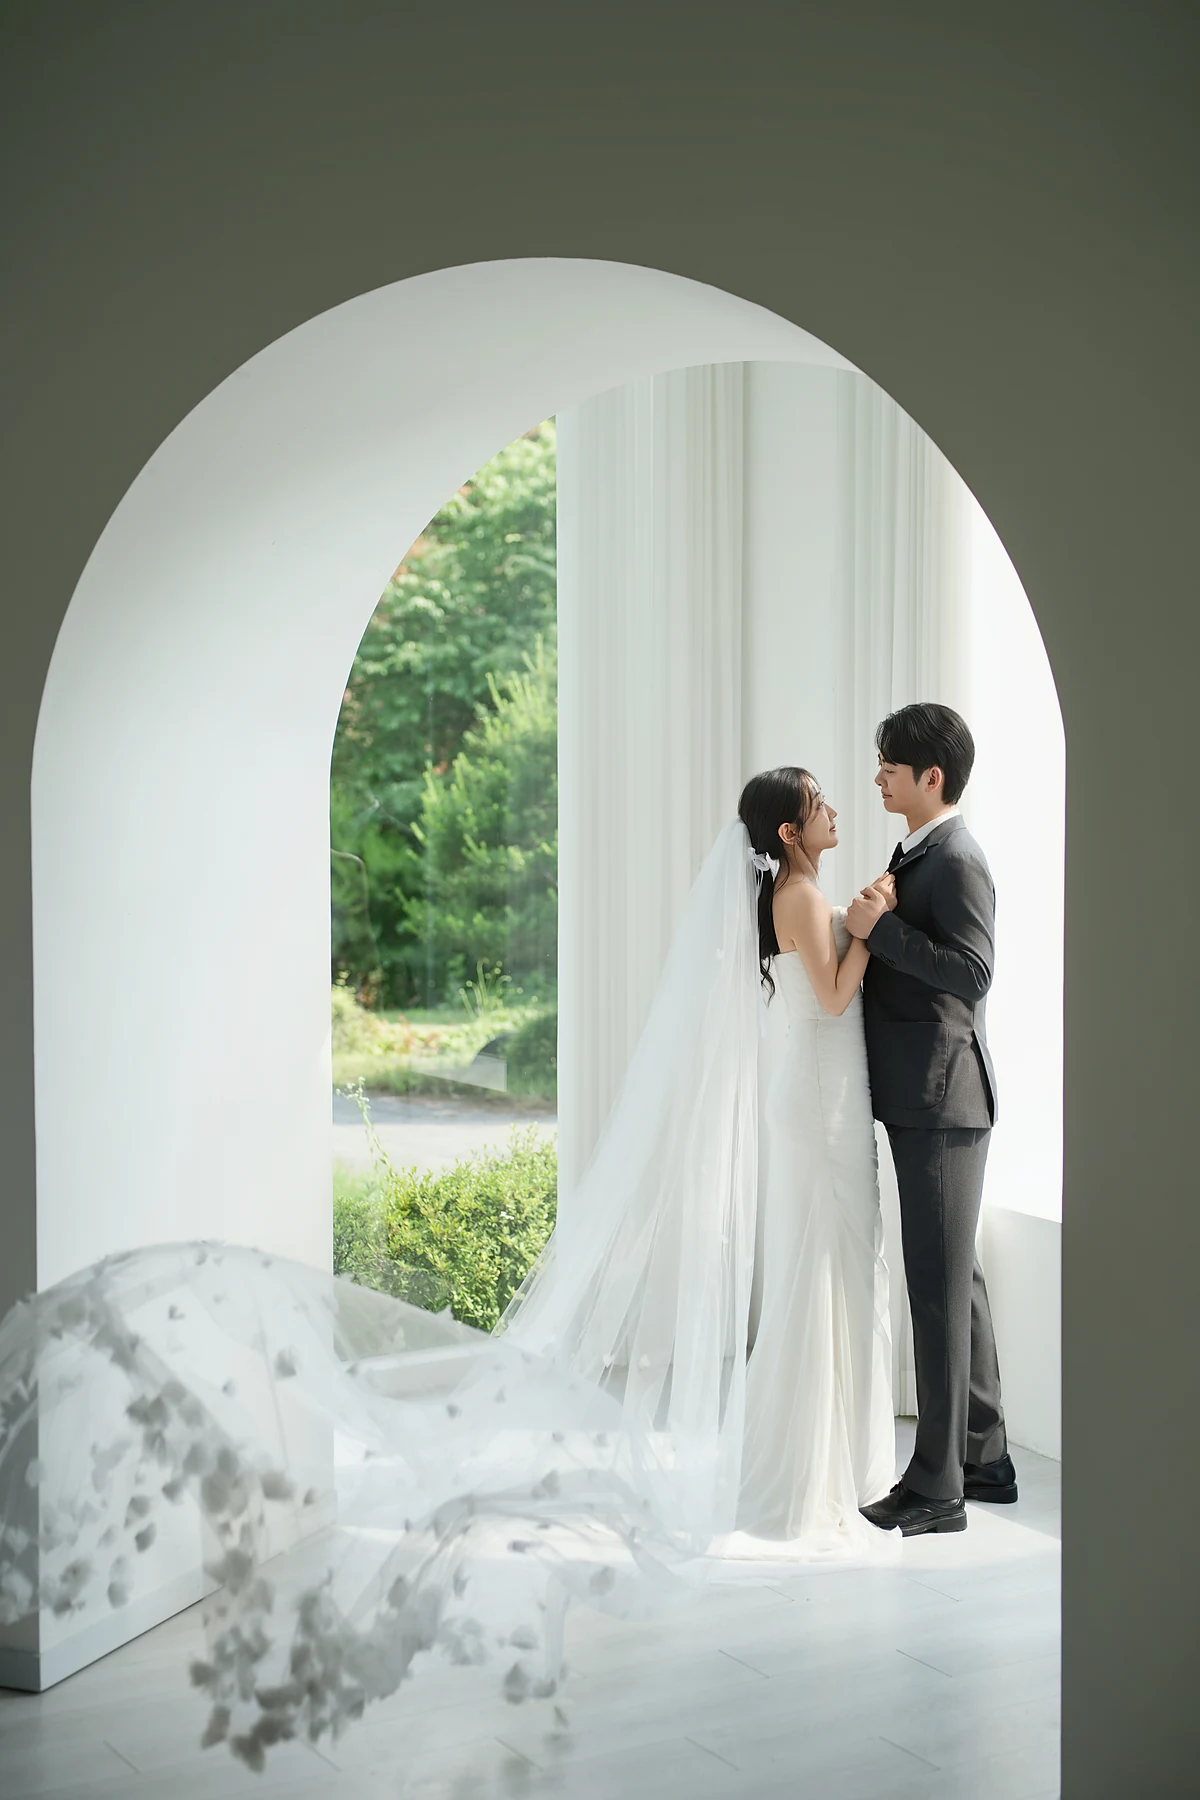
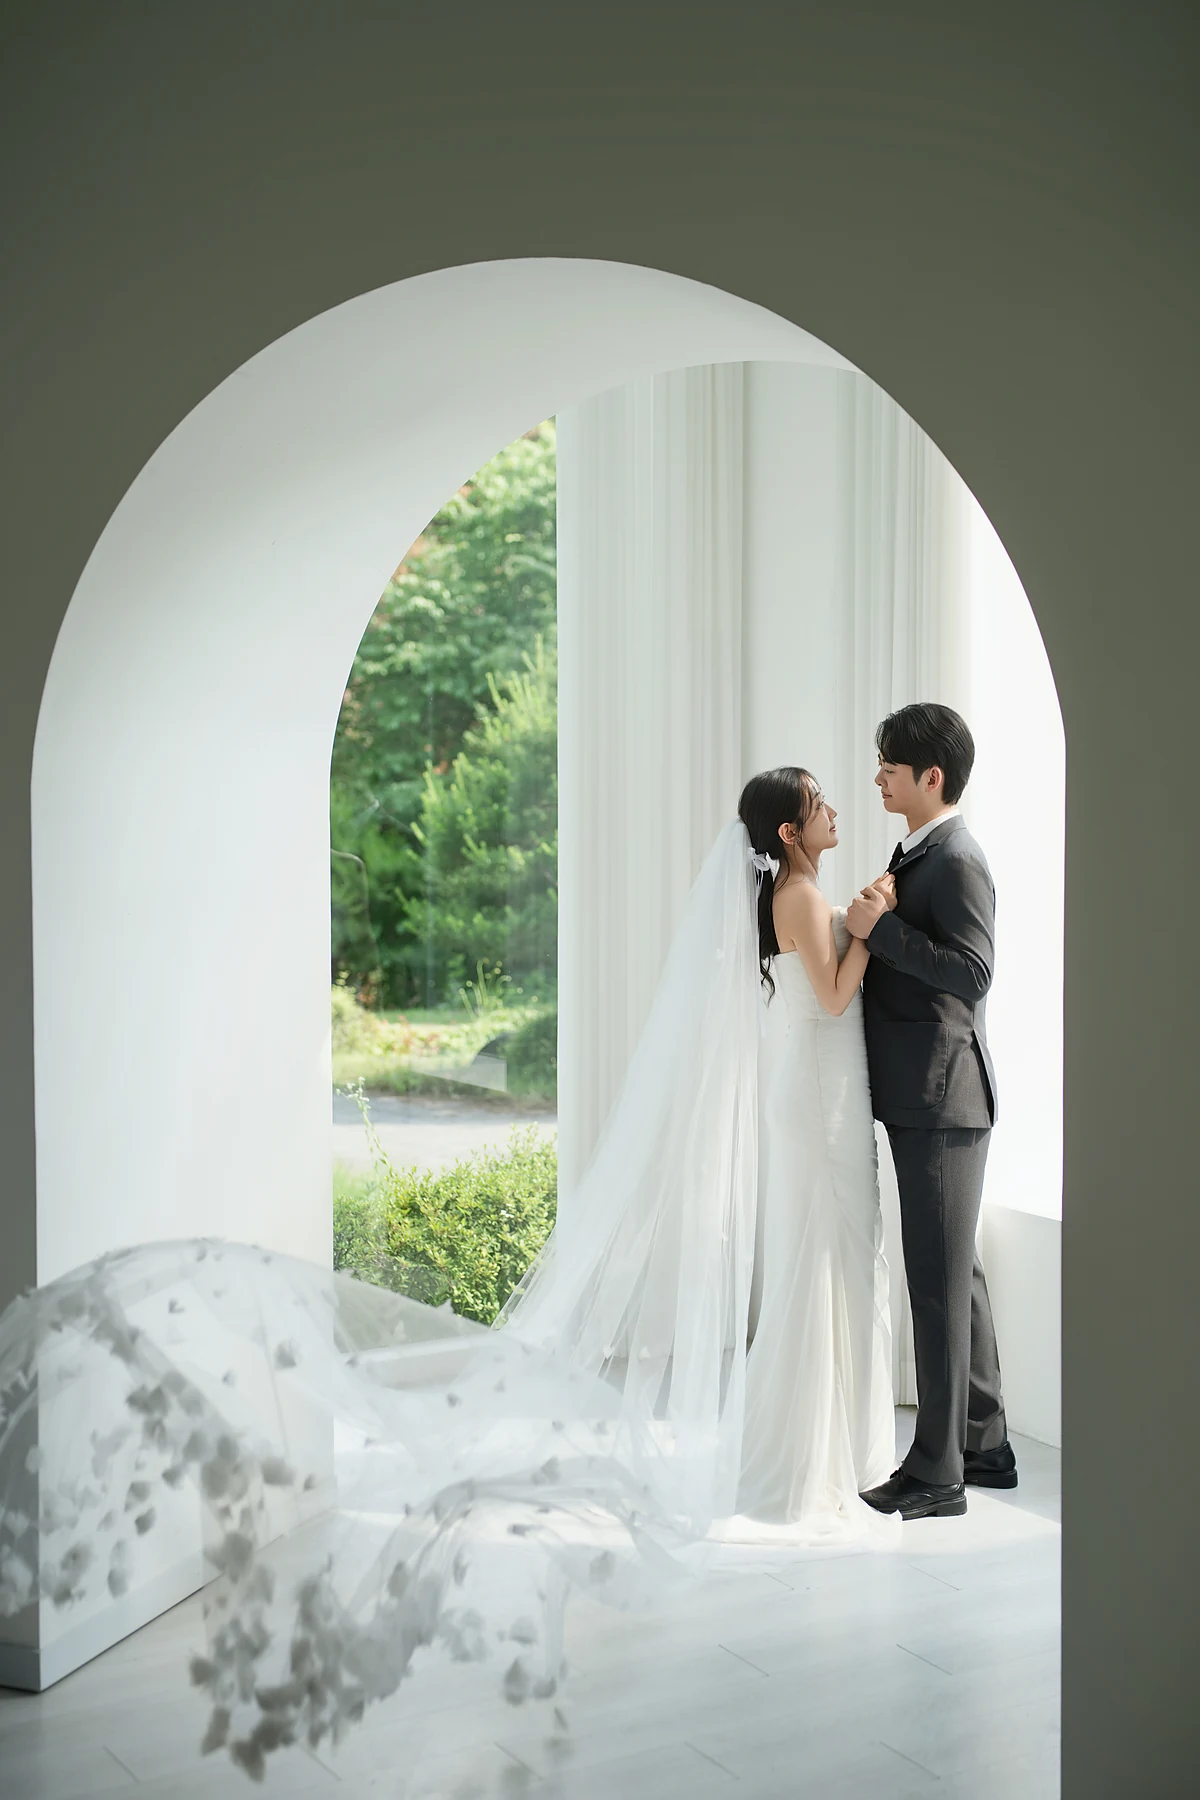
feat: 갤러리 사진 정리 (24장 -> 22장)
- 24, 25번 사진 제거
- 교체된 21번 원본 재변환 반영
- optimize_images.py에 --only 옵션 추가 (특정 사진만 재변환)

diff --git a/assets/js/config.js b/assets/js/config.js
@@ -113,17 +113,15 @@
     { src: "assets/images/gallery/g21.webp", thumb: "assets/images/gallery/g21-thumb.webp", hero: "assets/images/gallery/g21-hero.webp", alt: "웨딩 사진 11" },
     { src: "assets/images/gallery/g22.webp", thumb: "assets/images/gallery/g22-thumb.webp", hero: "assets/images/gallery/g22-hero.webp", alt: "웨딩 사진 12" },
     { src: "assets/images/gallery/g23.webp", thumb: "assets/images/gallery/g23-thumb.webp", hero: "assets/images/gallery/g23-hero.webp", alt: "웨딩 사진 13", layout: "wide" },
-    { src: "assets/images/gallery/g24.webp", thumb: "assets/images/gallery/g24-thumb.webp", hero: "assets/images/gallery/g24-hero.webp", alt: "웨딩 사진 14" },
-    { src: "assets/images/gallery/g25.webp", thumb: "assets/images/gallery/g25-thumb.webp", hero: "assets/images/gallery/g25-hero.webp", alt: "웨딩 사진 15" },
-    { src: "assets/images/gallery/g26.webp", thumb: "assets/images/gallery/g26-thumb.webp", hero: "assets/images/gallery/g26-hero.webp", alt: "웨딩 사진 16" },
-    { src: "assets/images/gallery/g03.webp", thumb: "assets/images/gallery/g03-thumb.webp", hero: "assets/images/gallery/g03-hero.webp", alt: "웨딩 사진 17" },
-    { src: "assets/images/gallery/g11.webp", thumb: "assets/images/gallery/g11-thumb.webp", hero: "assets/images/gallery/g11-hero.webp", alt: "웨딩 사진 18" },
-    { src: "assets/images/gallery/g01.webp", thumb: "assets/images/gallery/g01-thumb.webp", hero: "assets/images/gallery/g01-hero.webp", alt: "웨딩 사진 19" },
-    { src: "assets/images/gallery/g02.webp", thumb: "assets/images/gallery/g02-thumb.webp", hero: "assets/images/gallery/g02-hero.webp", alt: "웨딩 사진 20" },
-    { src: "assets/images/gallery/g04.webp", thumb: "assets/images/gallery/g04-thumb.webp", hero: "assets/images/gallery/g04-hero.webp", alt: "웨딩 사진 21" },
-    { src: "assets/images/gallery/g05-07.webp", thumb: "assets/images/gallery/g05-07-thumb.webp", hero: "assets/images/gallery/g05-07-hero.webp", alt: "웨딩 사진 22", layout: "tall" },
-    { src: "assets/images/gallery/g08.webp", thumb: "assets/images/gallery/g08-thumb.webp", hero: "assets/images/gallery/g08-hero.webp", alt: "웨딩 사진 23" },
-    { src: "assets/images/gallery/g09.webp", thumb: "assets/images/gallery/g09-thumb.webp", hero: "assets/images/gallery/g09-hero.webp", alt: "웨딩 사진 24", layout: "wide" }
+    { src: "assets/images/gallery/g26.webp", thumb: "assets/images/gallery/g26-thumb.webp", hero: "assets/images/gallery/g26-hero.webp", alt: "웨딩 사진 14" },
+    { src: "assets/images/gallery/g03.webp", thumb: "assets/images/gallery/g03-thumb.webp", hero: "assets/images/gallery/g03-hero.webp", alt: "웨딩 사진 15" },
+    { src: "assets/images/gallery/g11.webp", thumb: "assets/images/gallery/g11-thumb.webp", hero: "assets/images/gallery/g11-hero.webp", alt: "웨딩 사진 16" },
+    { src: "assets/images/gallery/g01.webp", thumb: "assets/images/gallery/g01-thumb.webp", hero: "assets/images/gallery/g01-hero.webp", alt: "웨딩 사진 17" },
+    { src: "assets/images/gallery/g02.webp", thumb: "assets/images/gallery/g02-thumb.webp", hero: "assets/images/gallery/g02-hero.webp", alt: "웨딩 사진 18" },
+    { src: "assets/images/gallery/g04.webp", thumb: "assets/images/gallery/g04-thumb.webp", hero: "assets/images/gallery/g04-hero.webp", alt: "웨딩 사진 19" },
+    { src: "assets/images/gallery/g05-07.webp", thumb: "assets/images/gallery/g05-07-thumb.webp", hero: "assets/images/gallery/g05-07-hero.webp", alt: "웨딩 사진 20", layout: "tall" },
+    { src: "assets/images/gallery/g08.webp", thumb: "assets/images/gallery/g08-thumb.webp", hero: "assets/images/gallery/g08-hero.webp", alt: "웨딩 사진 21" },
+    { src: "assets/images/gallery/g09.webp", thumb: "assets/images/gallery/g09-thumb.webp", hero: "assets/images/gallery/g09-hero.webp", alt: "웨딩 사진 22", layout: "wide" }
   ],
   share: {
     // 카카오 공유 썸네일. 규격: 400x400~800x800, 비율 2:1~3:4, 500KB 이하, SVG 불가

diff --git a/index.html b/index.html
@@ -10,7 +10,7 @@
   <link rel="preconnect" href="https://fonts.googleapis.com">
   <link rel="preconnect" href="https://fonts.gstatic.com" crossorigin>
   <link href="https://fonts.googleapis.com/css2?family=Cormorant+Garamond:wght@400;500;600&family=Noto+Sans+KR:wght@300;400;500;700&display=swap" rel="stylesheet">
-  <link rel="stylesheet" href="assets/css/styles.css?v=20260825-19">
+  <link rel="stylesheet" href="assets/css/styles.css?v=20260825-20">
 </head>
 <body>
   <div class="ambient" aria-hidden="true"></div>
@@ -109,7 +109,7 @@
     <p id="dialogCaption" class="dialog-caption"></p>
   </dialog>
 
-  <script src="assets/js/config.js?v=20260825-19"></script>
-  <script src="assets/js/app.js?v=20260825-19"></script>
+  <script src="assets/js/config.js?v=20260825-20"></script>
+  <script src="assets/js/app.js?v=20260825-20"></script>
 </body>
 </html>

diff --git a/tools/optimize_images.py b/tools/optimize_images.py
@@ -16,6 +16,7 @@ gallery/manifest.json 에 config.js 로 옮길 목록을 함께 출력하며,
     python tools/optimize_images.py
 """
 
+import argparse
 import json
 import re
 import sys
@@ -80,11 +81,35 @@ def mb(num_bytes: int) -> float:
     return num_bytes / (1024 * 1024)
 
 
+def source_number(path: Path) -> int:
+    """'gallery- (21).jpg' -> 21. 파일명이 곧 id이므로 일부만 재변환해도 어긋나지 않는다."""
+    m = re.search(r"\((\d+)\)", path.name)
+    return int(m.group(1)) if m else 0
+
+
 def main() -> int:
+    ap = argparse.ArgumentParser()
+    ap.add_argument(
+        "--only",
+        help="일부만 재변환할 원본 번호 (예: --only 21  또는  --only 21,24)",
+    )
+    args = ap.parse_args()
+
     sources = sorted(SRC_DIR.glob("gallery- (*).jpg"), key=natural_key)
     if not sources:
         print(f"[!] 원본을 찾지 못했습니다: {SRC_DIR}")
         return 1
+
+    manifest_path = OUT_DIR / "manifest.json"
+    only = None
+    if args.only:
+        only = {int(v) for v in args.only.replace(" ", "").split(",") if v}
+        sources = [s for s in sources if source_number(s) in only]
+        missing = only - {source_number(s) for s in sources}
+        if missing:
+            print(f"[!] 원본을 찾지 못했습니다: {sorted(missing)}")
+            return 1
+        print(f"부분 재변환: {', '.join(s.name for s in sources)}\n")
 
     OUT_DIR.mkdir(parents=True, exist_ok=True)
 
@@ -92,8 +117,8 @@ def main() -> int:
     out_total = 0
     manifest = []
 
-    for idx, src in enumerate(sources, start=1):
-        stem = f"g{idx:02d}"
+    for src in sources:
+        stem = f"g{source_number(src):02d}"
         img = load_clean(src)
         landscape = img.size[0] > img.size[1]
 
@@ -138,13 +163,19 @@ def main() -> int:
             f"{'  [가로]' if landscape else ''}"
         )
 
-    manifest_path = OUT_DIR / "manifest.json"
-
-    # 기존 노출 순서를 유지하고, 새로 생긴 사진만 뒤에 붙인다
-    order = saved_order(manifest_path)
-    if order:
-        rank = {gid: i for i, gid in enumerate(order)}
-        manifest.sort(key=lambda entry: rank.get(entry["id"], len(rank)))
+    if only and manifest_path.exists():
+        # 부분 재변환: 기존 목록에서 해당 항목만 갈아끼우고 나머지는 그대로 둔다
+        existing = json.loads(manifest_path.read_text(encoding="utf-8"))
+        updated = {e["id"]: e for e in manifest}
+        merged = [updated.pop(e["id"], e) for e in existing]
+        merged.extend(updated.values())     # 목록에 없던 사진은 뒤에 추가
+        manifest = merged
+    else:
+        # 기존 노출 순서를 유지하고, 새로 생긴 사진만 뒤에 붙인다
+        order = saved_order(manifest_path)
+        if order:
+            rank = {gid: i for i, gid in enumerate(order)}
+            manifest.sort(key=lambda entry: rank.get(entry["id"], len(rank)))
 
     manifest_path.write_text(
         json.dumps(manifest, indent=2, ensure_ascii=False), encoding="utf-8"
